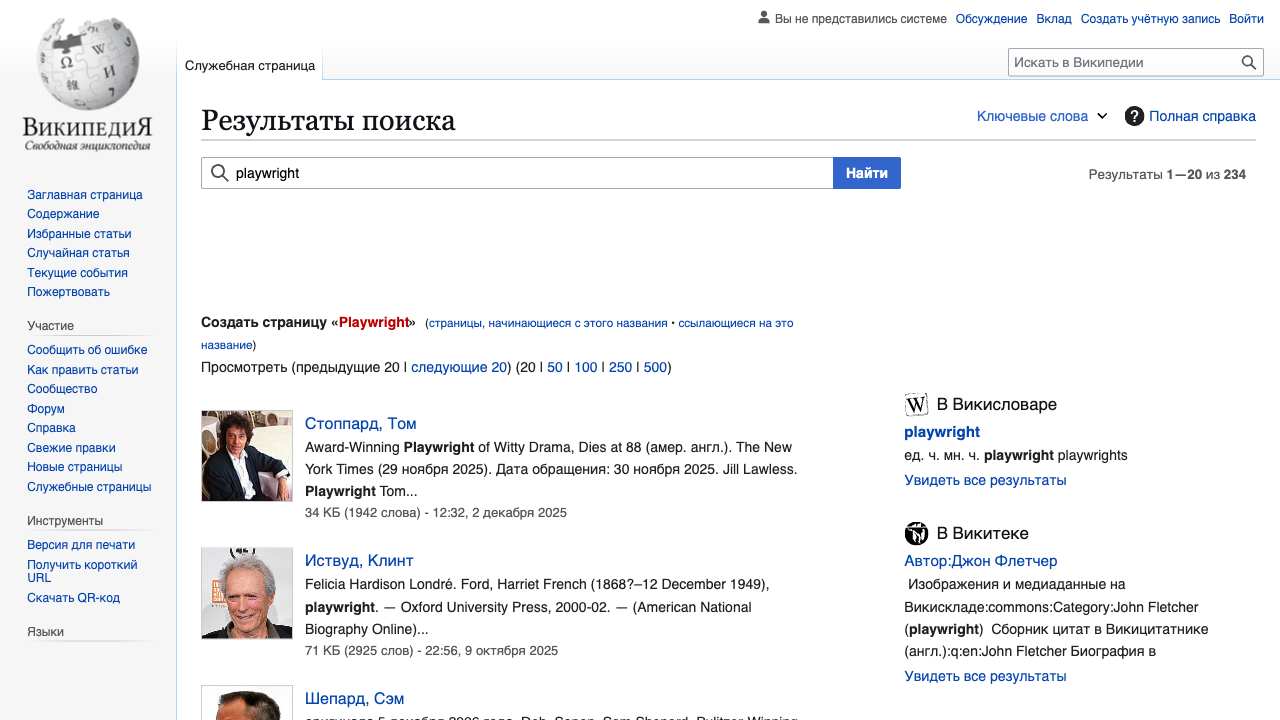
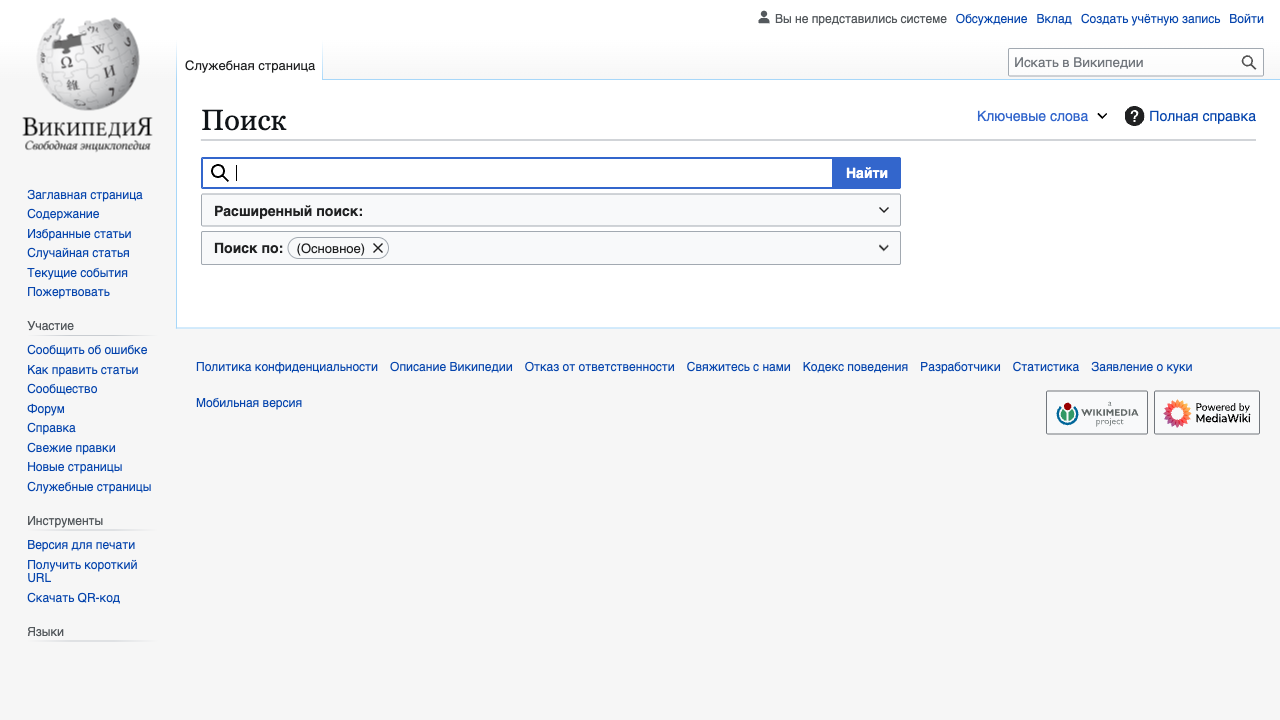
add new pw test

diff --git a/src/test/java/ru/java/mifi/demo/TestPwExample.java b/src/test/java/ru/java/mifi/demo/TestPwExample.java
@@ -47,4 +47,14 @@ public class TestPwExample {
         page.screenshot(new Page.ScreenshotOptions().setPath(Paths.get("wikipedia.png")));
         assertEquals("https://ru.wikipedia.org/w/index.php?go=Go&search=playwright&title=%D0%A1%D0%BB%D1%83%D0%B6%D0%B5%D0%B1%D0%BD%D0%B0%D1%8F:%D0%9F%D0%BE%D0%B8%D1%81%D0%BA&ns0=1", page.url());
     }
+
+    @Test
+    void shouldNotSearchWiki() {
+        page.navigate("https://www.wikipedia.org/");
+        page.locator("input[name=\"search\"]").click();
+//        page.locator("input[name=\"search\"]").fill("playwright");
+        page.locator("input[name=\"search\"]").press("Enter");
+        page.screenshot(new Page.ScreenshotOptions().setPath(Paths.get("wikipedia2.png")));
+        assertEquals("https://ru.wikipedia.org/w/index.php?title=%D0%A1%D0%BB%D1%83%D0%B6%D0%B5%D0%B1%D0%BD%D0%B0%D1%8F:%D0%9F%D0%BE%D0%B8%D1%81%D0%BA&go=Go&search=", page.url());
+    }
 }
